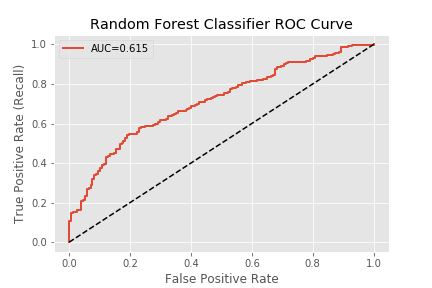
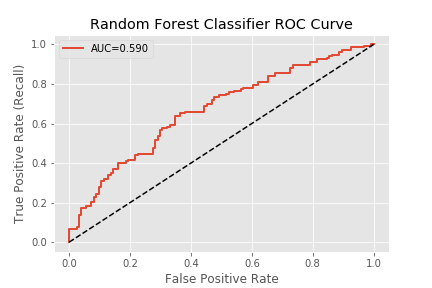
edit readme

diff --git a/README.md b/README.md
@@ -63,18 +63,18 @@ A heat map was used to find highly correlated stats. For example, as shown below
 A goal of this study was to find if I could accurately predict important features using my domain knowledge of the NFL.
 
 For each game, I predicted that the following would be the most important features:
-| Rank         | Features                   |
-| -------------| -------------              |
-| 1            | xHome_Team_Score           |
-| 2            | xAway_Team_Score           |
-| 3            | xHome_Team_Opponent_Score  |
-| 4            | xAway_Team_Opponent_Score  |
-| 5            | xHome_Team_QB_Rating       |
-| 6            | xAway_Team_QB_Rating       |
-| 7            | xHome_Team_Wins_Past_Games |
-| 8            | xAway_Team_Wins_Past_Games |
-| 9            | xHome_Team_Sacks           |
-| 10           | xAway_Team_Sacks           |
+| Rank         | Features                  |
+| -------------| -------------             |
+| 1            | Home_Team_Score           |
+| 2            | Away_Team_Score           |
+| 3            | Home_Team_Opponent_Score  |
+| 4            | Away_Team_Opponent_Score  |
+| 5            | Home_Team_QB_Rating       |
+| 6            | Away_Team_QB_Rating       |
+| 7            | Home_Team_Wins_Past_Games |
+| 8            | Away_Team_Wins_Past_Games |
+| 9            | Home_Team_Sacks           |
+| 10           | Away_Team_Sacks           |
 
 
 ## Model Selection
@@ -99,4 +99,21 @@ As shown, the accuracy doesn't improve by much even by adding in all of the extr
 The full model was built using all of the data from 2014-2018 seasons to develop the important features that the Random Forest found as well as developing an ROC curve to compare against other models.
 
 According to the Random Forest model, the following features were most important:
+
+| Rank         | Features                  |
+| -------------| -------------             |
+| 1            | Away_Team_Score           |
+| 2            | Home_Team_Wins_Past_Games |
+| 3            | Home_Team_Score           |
+| 4            | Home_Team_Opponent_Score  |
+| 5            | Away_Team_QB_Rating       |
+| 6            | Home_Team_QB_Rating       |
+| 7            | Home_Sacks_Allowed        |
+| 8            | Home_Third_Down_Pct       |
+| 9            | Away_Third_Down_Pct       |
+| 10           | Away_Sacks_Allowed        |
+
+And finally for the Random Forest model, the ROC curve and AOC score:
+
+![Random-Forest-ROC-AUC](images/rand_fore_roc_curve)
 
